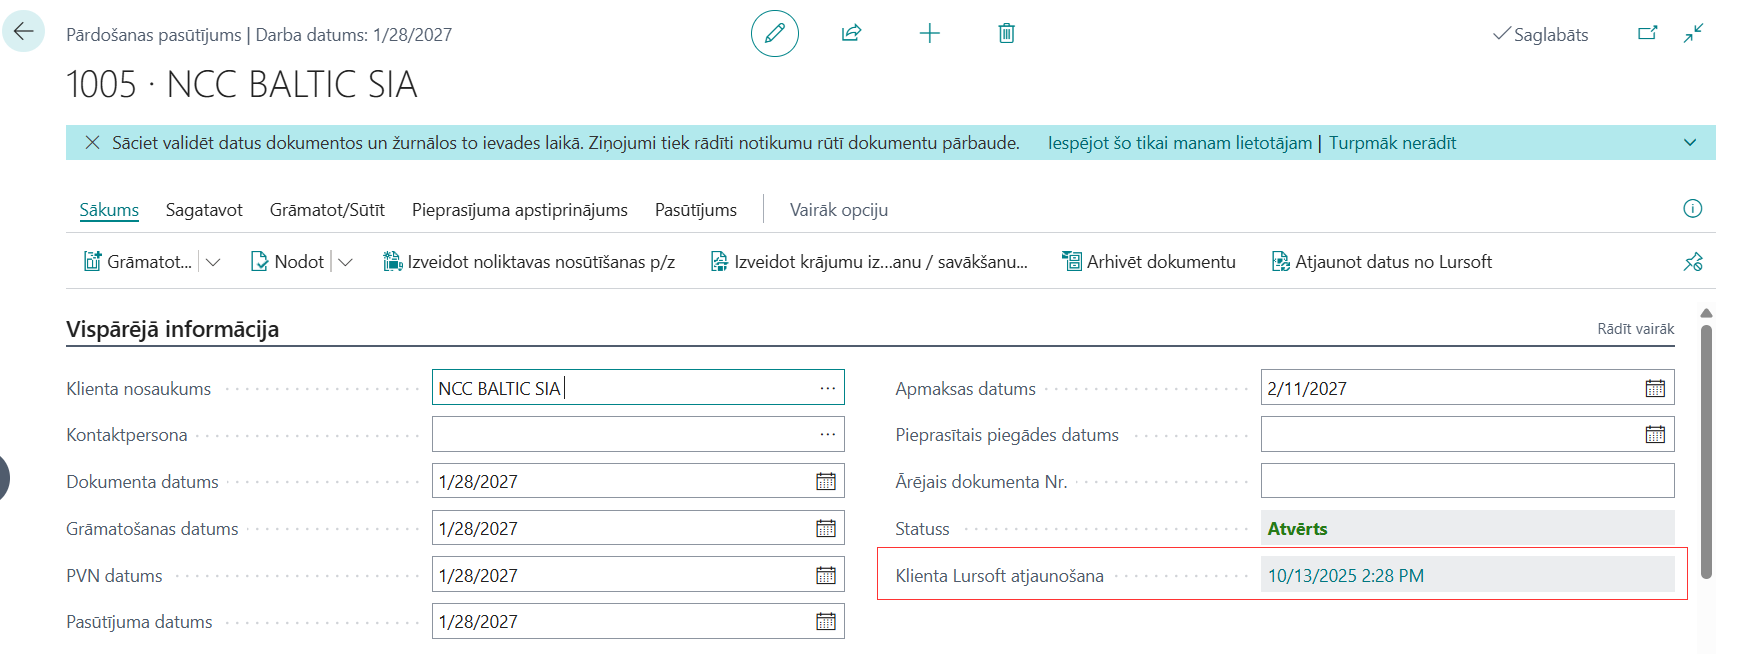
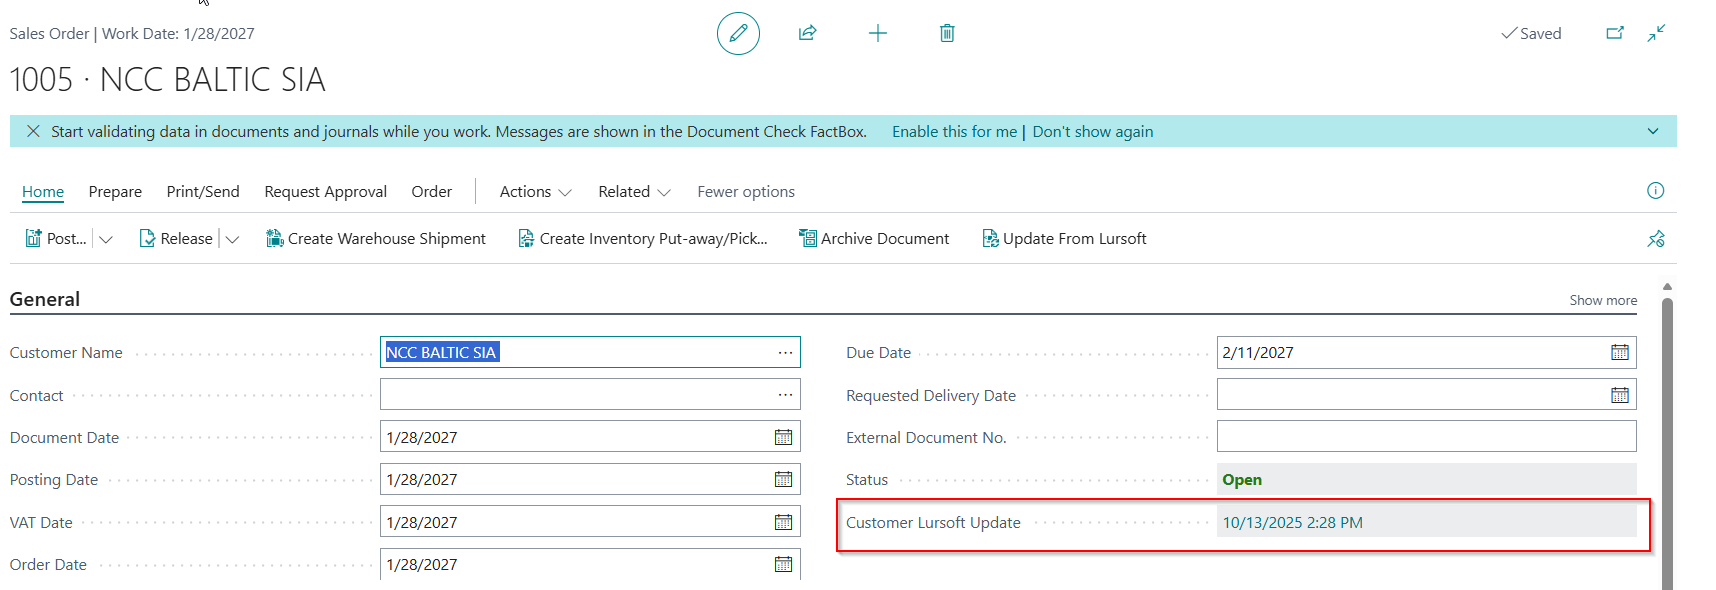
Automated Release en-US

diff --git a/en-US/articles/lursoft/lursoft.html b/en-US/articles/lursoft/lursoft.html
@@ -186,16 +186,16 @@
 <ol>
 <li>Press the <strong>Search</strong> icon in the upper right corner of the page, enter <em>Sales Orders</em> and select the appropriate link.</li>
 <li>In the list of sales orders, select the order for which you need to request customer data from Lursoft and open the corresponding <strong>Sales order</strong>.</li>
-<li>Request Lursoft data by clicking <strong>Restore data from Lursoft</strong>;</li>
+<li>Request Lursoft data by clicking <strong>Update From Lursoft</strong>;</li>
 </ol>
 <p><img src="images/sales_001.png" alt="alt"></p>
 <ol start="4">
-<li>Review and confirm the data received from Lursoft on the page <strong>Detail of Lursoft tracking records</strong>;</li>
+<li>Review and confirm the data received from Lursoft on the page <strong>Lursoft Log Details</strong>;</li>
 </ol>
 <p><img src="images/tracking_001.png" alt="alt"></p>
 <ol start="5">
-<li>After fulfilling the Lurosft request, the confirmed data on the page <strong>Detail of Lursoft tracking records</strong>, which will also be replaced in the corresponding data fields of the Customer Card;</li>
-<li>Upon Lurosft's request, the date and time of the request will also be updated on the <strong>Sales order</strong> field in the <strong>Customer Lurosft renewal</strong> field**:</li>
+<li>After fulfilling the Lurosft request, the confirmed data on the page <strong>Lursoft Log Details</strong>, which will also be replaced in the corresponding data fields of the Customer Card;</li>
+<li>Upon Lurosft's request, the date and time of the request will also be updated on the <strong>Sales order</strong> field in the <strong>Customer Lurosft Update</strong> field**:</li>
 </ol>
 <p><img src="images/sales_002.png" alt="alt"></p>
 <ol start="7">
@@ -208,8 +208,8 @@
 </ol>
 <p><img src="images/vendor_001.png" alt="alt"></p>
 <ol start="3">
-<li>Request Lursoft data by clicking <strong>Restore data from Lursoft</strong>;</li>
-<li>Perform a review of the previously requested data by clicking <strong>Lursoft tracking log</strong>;</li>
+<li>Request Lursoft data by clicking <strong>Update from Lursoft</strong>;</li>
+<li>Perform a review of the previously requested data by clicking <strong>Lursoft log</strong>;</li>
 </ol>
 <p><img src="images/tracking_001.png" alt="alt"></p>
 <ol start="5">
